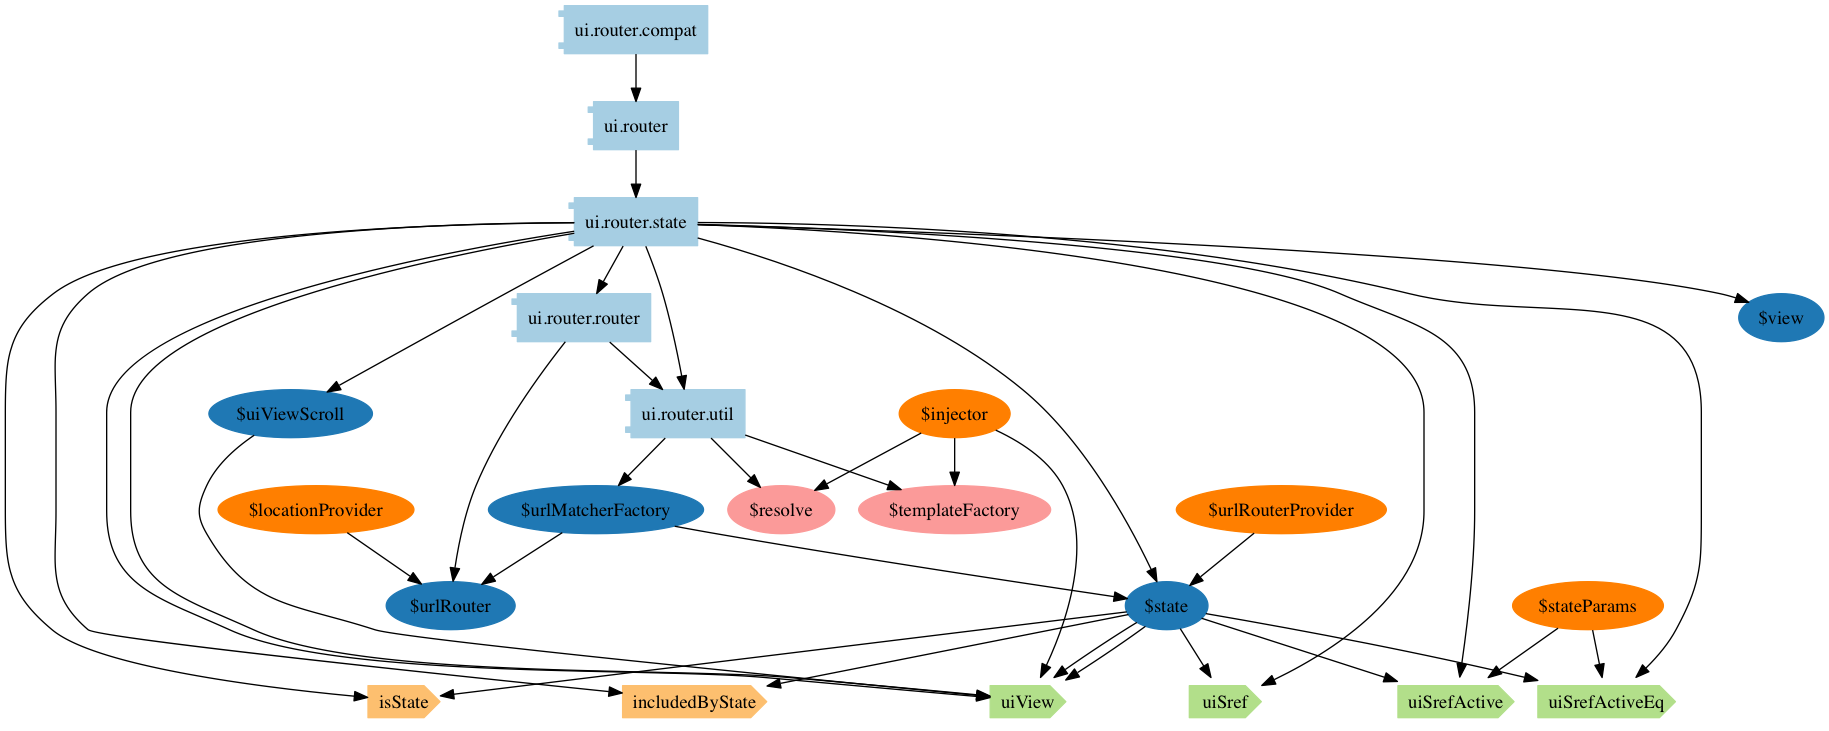
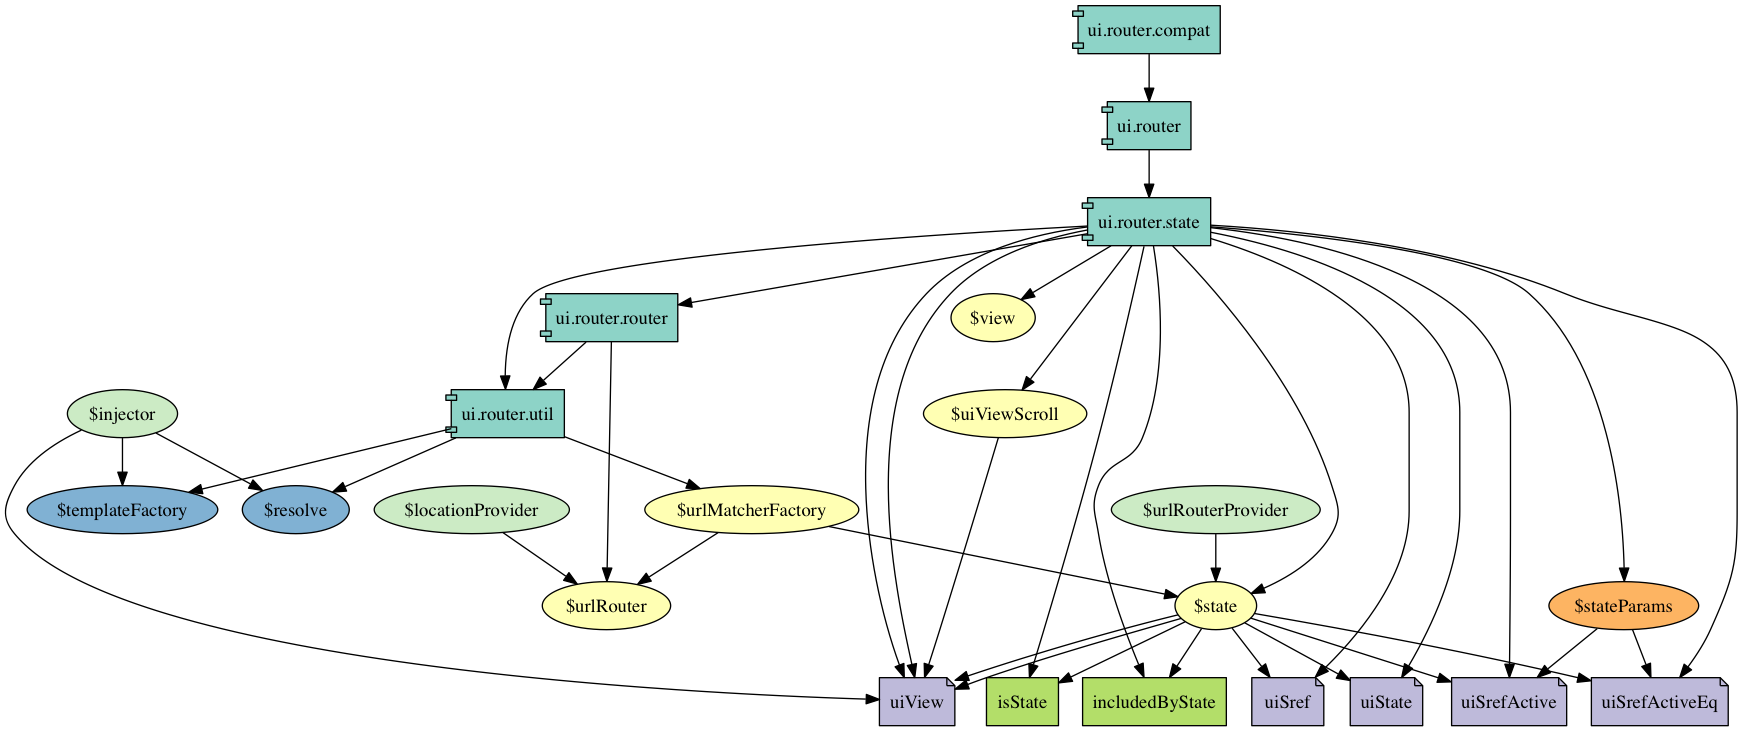
feat(app) : .component API support, design updates

diff --git a/helpers.js b/helpers.js
@@ -89,6 +89,8 @@ module.exports = function(gutil) {
                               .replace(/\{1\}/g, options.shapeModules)
                               .replace(/\{2\}/g, options.shapeFactories)
                               .replace(/\{3\}/g, options.shapeDirectives)
+                              .replace(/\{4\}/g, options.shapeComponents)
+                              .replace(/\{5\}/g, options.shapeFilters)
                               .replace(/\{scheme\}/g, options.colorScheme);
             });
 

diff --git a/index.js b/index.js
@@ -10,8 +10,10 @@ gulpAngularGraph = function(options) {
             hideAngularServices: true,
             shapeModules: 'component',
             shapeFactories: 'ellipse',
-            shapeDirectives: 'cds',
-            colorScheme: 'paired12',
+            shapeFilters: 'rectangle',
+            shapeDirectives: 'note',
+            shapeComponents: 'folder',
+            colorScheme: 'set312',
             dest: 'architecture',
             filterModulesPrefixes: []
         },

diff --git a/README.md b/README.md
@@ -17,6 +17,8 @@
 Generate modules dependencies graph.
 Port of https://github.com/lucalanca/grunt-angular-architecture-graph
 
+![angular-ui/ui-router state module](https://raw.githubusercontent.com/vogloblinsky/gulp-angular-architecture-graph/master/docs/images/ui.router.state.png "angular-ui/ui-router Dependencies graph")
+
 ## Getting Started
 
 ### 0 - Install graphviz
@@ -66,22 +68,12 @@ gulp.task('default', function(){
 
 execute the task and the diagrams will be in the output folder, in this example it is in the folder ```architecture```.
 
-## Demos
+## Demo
 
 ![legend](https://raw.githubusercontent.com/vogloblinsky/gulp-angular-architecture-graph/master/docs/images/legend.png "Generated Graph Legend")
 
 - ui-router overview diagram
 ![angular-ui/ui-router overview](https://raw.githubusercontent.com/vogloblinsky/gulp-angular-architecture-graph/master/docs/images/all.ui-router.png "angular-ui/ui-router Dependencies graph")
-
-- ui-router ui.router.state module
-![angular-ui/ui-router state module](https://raw.githubusercontent.com/vogloblinsky/gulp-angular-architecture-graph/master/docs/images/ui.router.state.png "angular-ui/ui-router Dependencies graph")
-
-- ui-bootstrap
-![angular-ui/bootstrap ](https://raw.githubusercontent.com/vogloblinsky/gulp-angular-architecture-graph/master/docs/images/all.ui-bootstrap.png "angular-ui/bootstrap Dependencies graph")
-
-- ui-bootstrap ui.bootstrap.tooltip module
-![angular-ui/bootstrap tooltip module ](https://raw.githubusercontent.com/vogloblinsky/gulp-angular-architecture-graph/master/docs/images/ui.bootstrap.tooltip.png "angular-ui/bootstrap Dependencies graph")
-
 
 ## Options
 
@@ -137,26 +129,41 @@ nodes.
 shapeFactories: 'house'
 ```
 
+### options.shapeFilters
+Type: `String`
+Default value: `rectangle`
+
+A string value that allows you to change the default shape used for filters nodes.
+
+```js
+shapeFilters: 'house'
+```
+
 ### options.shapeDirectives
 Type: `String`
-Default value: `cds`
+Default value: `note`
 
-A string value that allows you to change the default shape used for
-
- * Filter
- * Directive
-
-nodes.
+A string value that allows you to change the default shape used for directives nodes.
 
 ```js
 shapeDirectives: 'trapezium'
+```
+
+### options.shapeComponents
+Type: `String`
+Default value: `folder`
+
+A string value that allows you to change the default shape used for components nodes.
+
+```js
+shapeComponents: 'trapezium'
 ```
 
 Available graphviz shapes are shown [here](http://www.graphviz.org/doc/info/shapes.html)
 
 ### options.colorScheme
 Type: `String`
-Default value: `paired12`
+Default value: `set312`
 
 A string value that allows you to change the  graph colour scheme. You currently need to choose a scheme with at least 9 colours to ensure that all nodes
 are coloured. Colour schemes which include white or very pale colours will cause some nodes to be hard to see or appear invisible against the white background
@@ -183,16 +190,6 @@ filterModulesPrefixes: ['ng', 'ui', 'formly', 'angular']
 - carlo-colombo (initial creator of the project)
 - manekinekko
 
-## Release History
+## Release notes
 
-### 0.0.3
-
-- fixed issues on Linux.
-
-### 0.0.2
-
-- fixed issues on Windows.
-
-### 0.0.1
-
-- initial release
+[CHANGELOG.md](https://github.com/vogloblinsky/gulp-angular-architecture-graph/blob/master/CHANGELOG.md)

diff --git a/CHANGELOG.md b/CHANGELOG.md
@@ -1,6 +1,14 @@
 # Change Log
 All notable changes to this project will be documented in this file.
 
+## 0.0.5 - 2016-10-28
+### Features
+- support .component API
+### Changed
+- colorScheme move from 'paired12' to 'set312'
+- all shapes are filled with borders
+- use three different shapes for filters, directives and components
+
 ## 0.0.4 - 2016-05-30
 ### Features
 - filter modules with prefixes.
